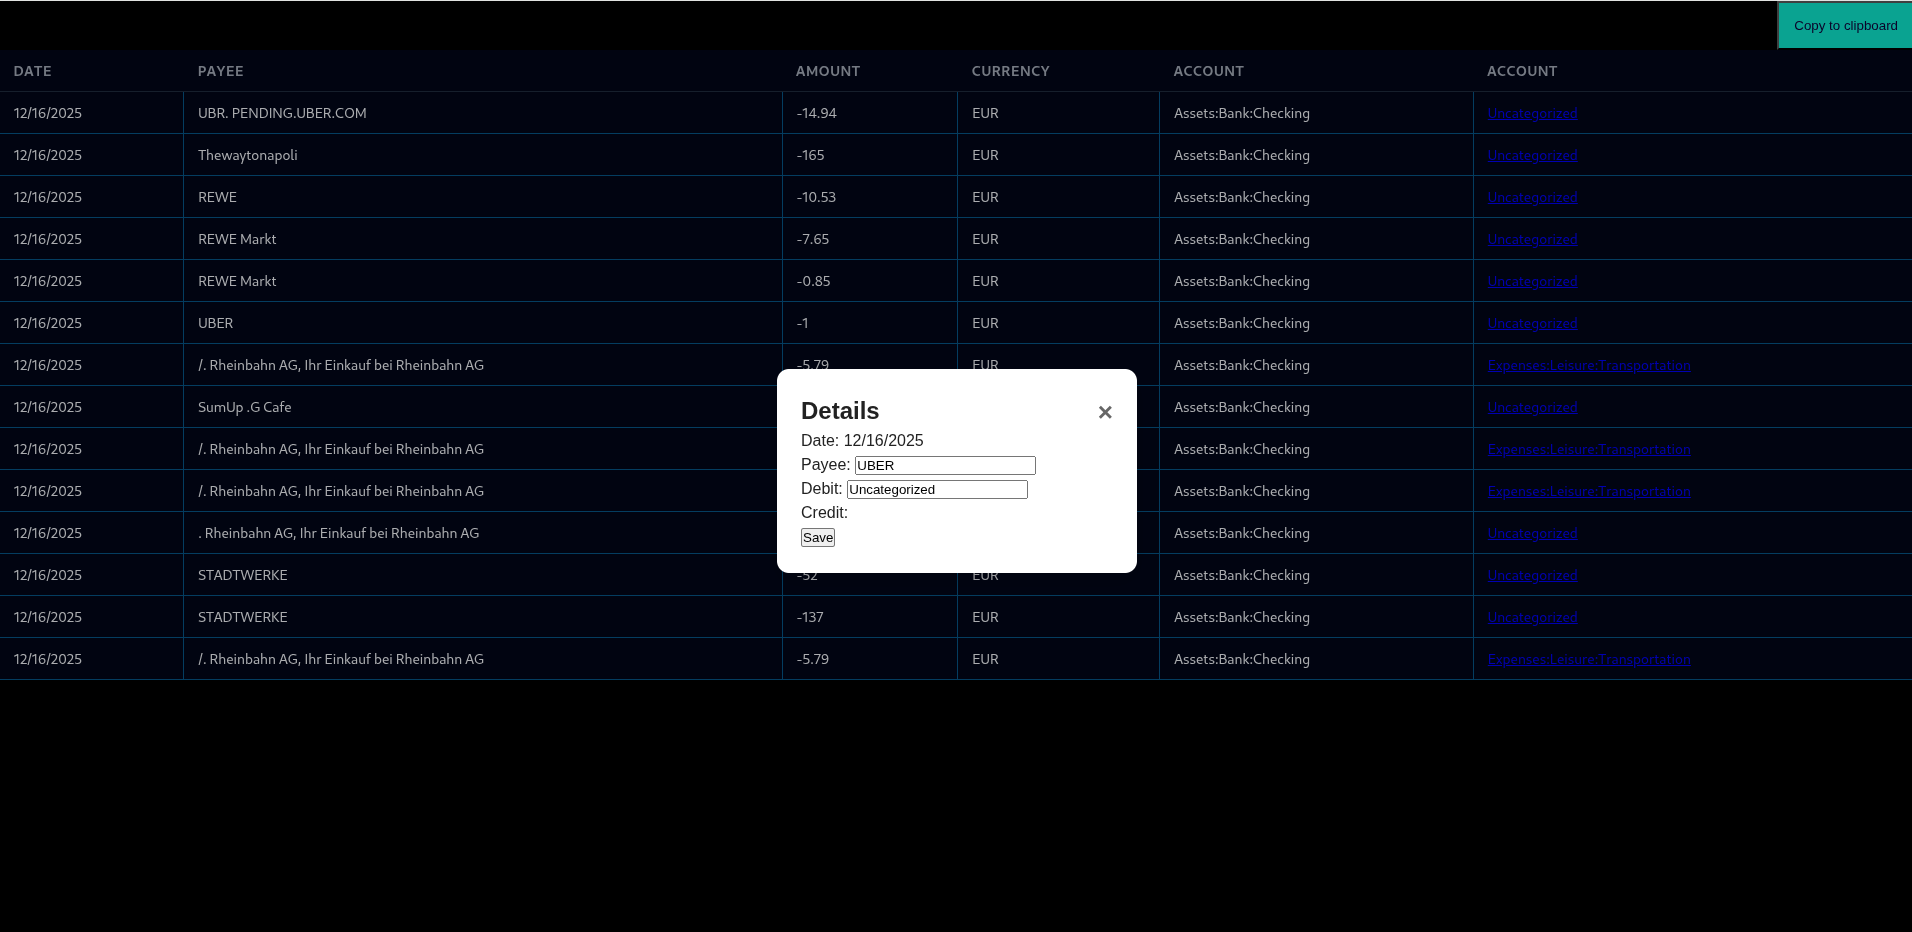
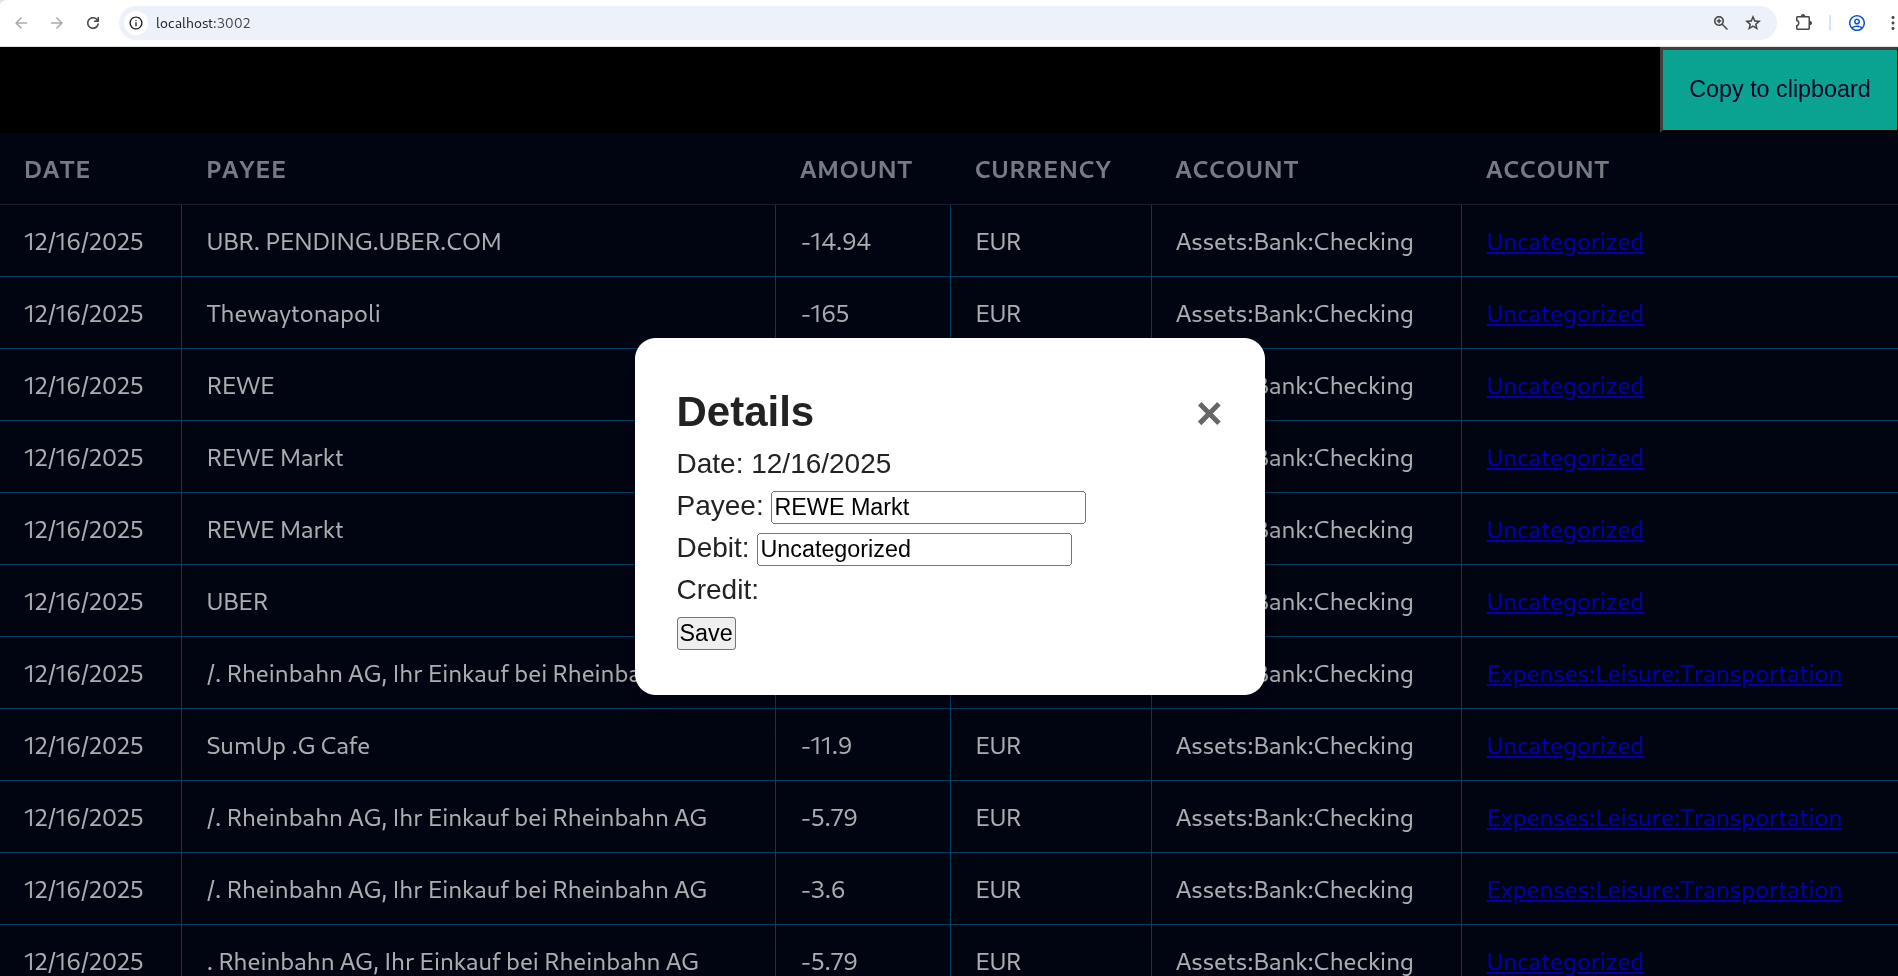
Update image

diff --git a/README.md b/README.md
@@ -48,8 +48,8 @@
 - check paypal bug DONE
 - delete print logs DONE
 - first line in the layout should be headers DONE
+- show nicer layout DONE
 - improve UI -> more snappy (flex maybe)
-- show nicer layout
 - improve layout
 - download new transactions automatically
 - get the filename of the new transactions
